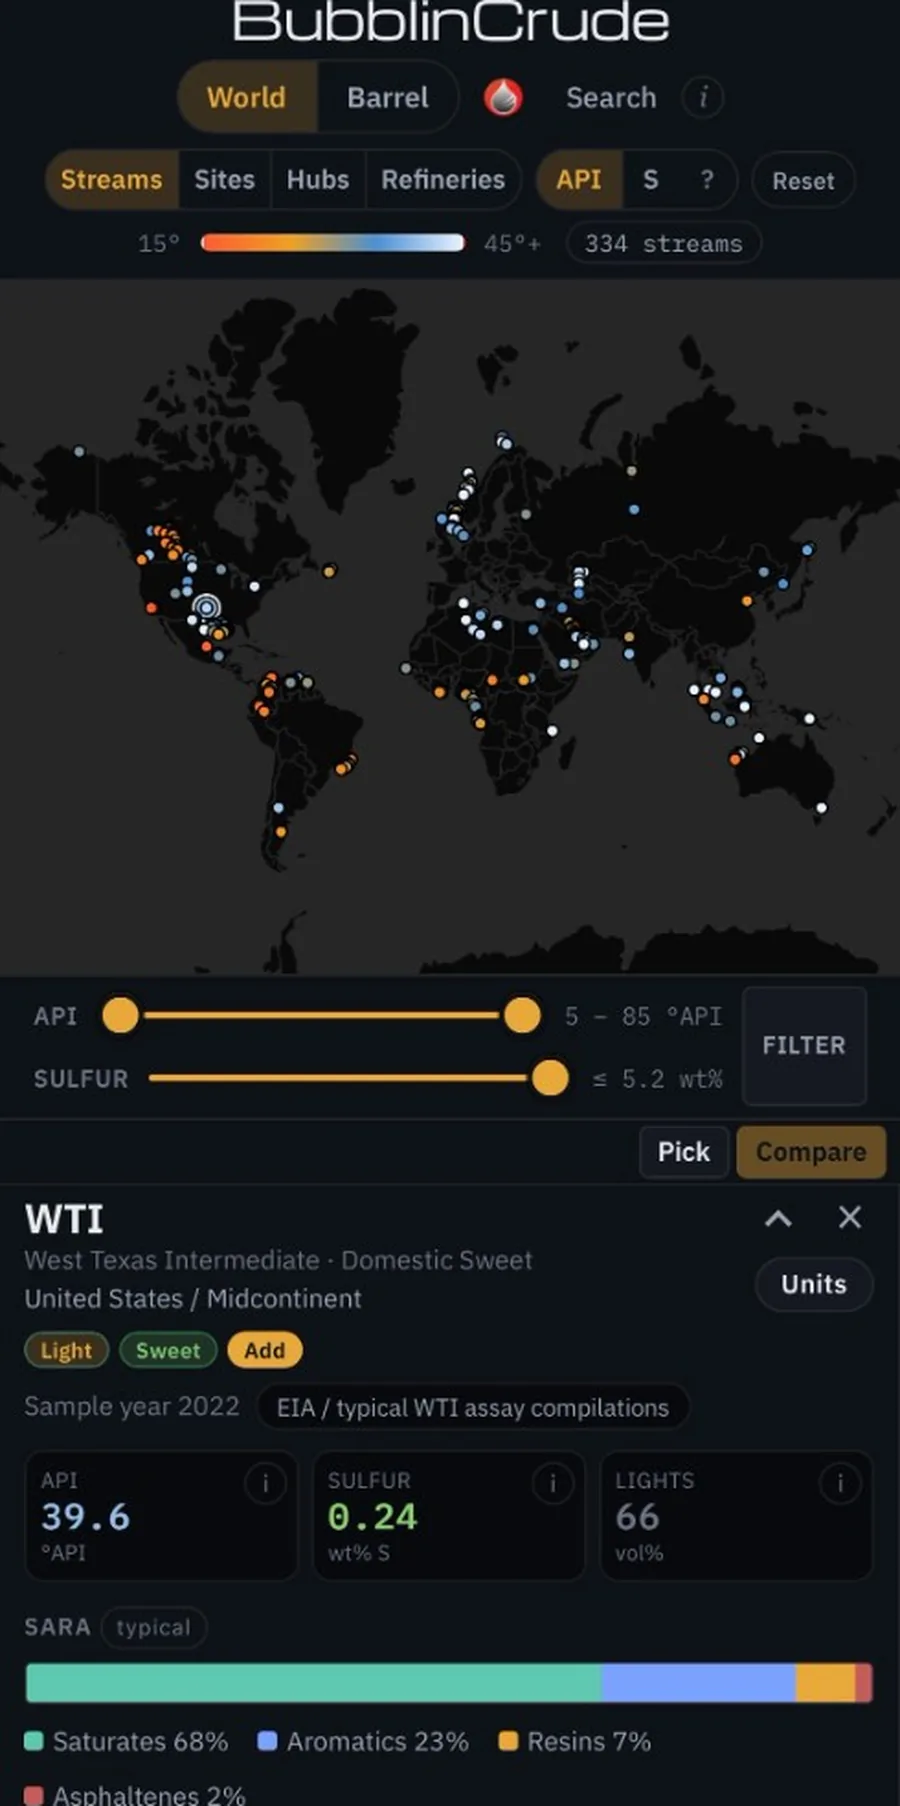
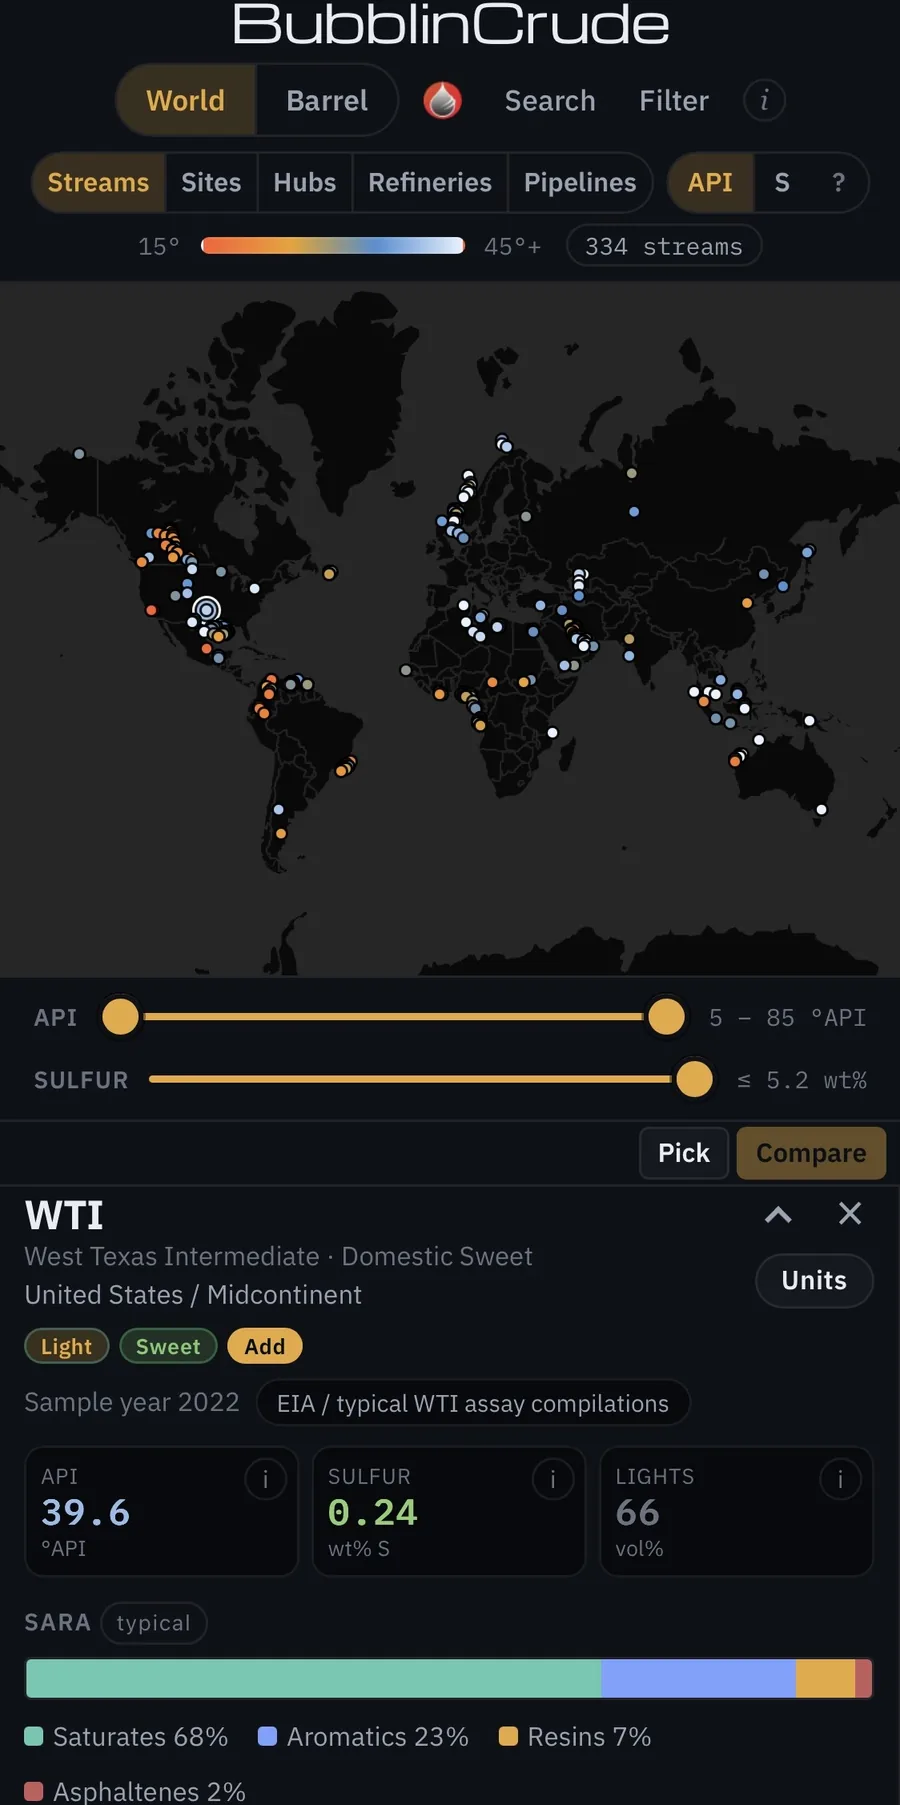
Refresh BubblinCrude hub card from the current phone screenshot.
Grid and spherical both pick up the new capture via cache-bust.

diff --git a/hub.js b/hub.js
@@ -1,4 +1,4 @@
-import { APPS } from "./apps.js?v=16";
+import { APPS } from "./apps.js?v=17";
 
 const MODE_KEY = "markmaga-hub-mode";
 
@@ -87,13 +87,13 @@ function setMode(next) {
 
 async function goSphere() {
   setMode("sphere");
-  const mod = await import("./sphere.js?v=11");
+  const mod = await import("./sphere.js?v=12");
   await mod.enterSphere();
 }
 
 async function goGrid() {
   try {
-    const mod = await import("./sphere.js?v=11");
+    const mod = await import("./sphere.js?v=12");
     mod.leaveSphere();
   } catch (_) {}
   setMode("grid");

diff --git a/apps.js b/apps.js
@@ -6,9 +6,9 @@ export const APPS = [
     id: "bubblincrude-app",
     name: "BubblinCrude",
     href: "https://bubblincrude.markmaga.com",
-    img: "images/ss-bubblincrude.webp?v=7",
+    img: "images/ss-bubblincrude.webp?v=8",
     imgW: 900,
-    imgH: 1806,
+    imgH: 1805,
     hint: "Global crude streams · filter, assay, compare WTI, Merey-16, Boscan",
   },
   {

diff --git a/sphere.js b/sphere.js
@@ -3,7 +3,7 @@
  * 16 live equator cards; extras sit on the inner ring. Ghost latitude bands.
  */
 import * as THREE from "./vendor/three.module.min.js";
-import { APPS } from "./apps.js?v=16";
+import { APPS } from "./apps.js?v=17";
 
 const REAL = 16;
 const EQUATOR_SLOT_DEG = 360 / REAL;

diff --git a/index.html b/index.html
@@ -283,7 +283,7 @@
       });
     })();
   </script>
-  <script type="module" src="hub.js?v=19"></script>
+  <script type="module" src="hub.js?v=20"></script>
   <script>
     window.va = window.va || function () { (window.vaq = window.vaq || []).push(arguments); };
   </script>
